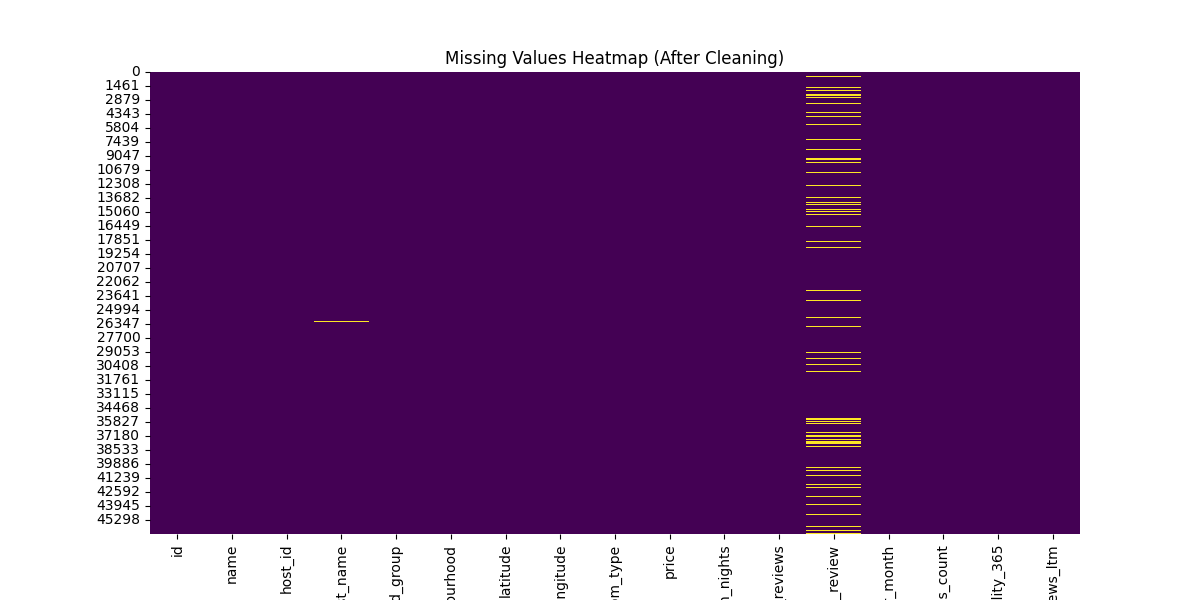
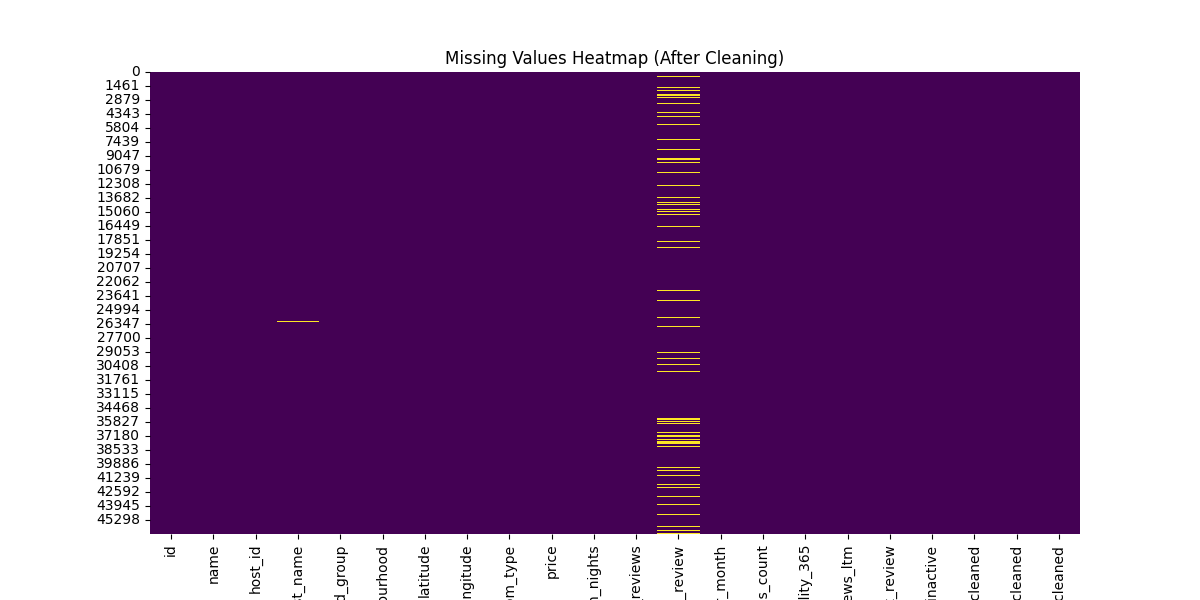
Enhance data cleaning and remove integration script
Improved data cleaning by adding advanced handling for missing values, outlier capping, feature engineering (e.g., days_since_last_review, is_inactive), and rare category grouping. Dropped the data_integration.py script as integration is no longer required. Updated data_quality.py for minor code cleanup and formatting.

diff --git a/preprocessing/data_cleaning.py b/preprocessing/data_cleaning.py
@@ -1,18 +1,21 @@
-# Code for Data Cleaning
-# Explanation: Handle missing values, remove duplicates, correct data types.
-# For reviews_per_month: Set to 0 when number_of_reviews == 0 (meaningful, as no reviews mean 0 per month).
-# For last_review: Set to a placeholder like 'No Reviews' or drop if not useful for regression (we'll drop it later if irrelevant).
-# License is often missing – drop if >90% missing.
-# Remove duplicates based on 'id'.
-# Handle outliers: Cap price at 99th percentile if needed.
-# Output: Show before/after shape, missing values.
 import seaborn as sns
 import matplotlib.pyplot as plt
 import pandas as pd
-
+import numpy as np
 from common.config import INPUT_CSV
 
 df = pd.read_csv(INPUT_CSV)
+
+# Handle missing values, remove duplicates, correct data types.
+# For reviews_per_month: Set to 0 when number_of_reviews == 0 (meaningful, as no reviews mean 0 per month).
+# For last_review: Convert to days_since_last_review (using Sep 29, 2025) and impute missing with max+1.
+# License is often missing – drop if >80% missing.
+# Remove duplicates based on 'id'.
+# Handle outliers: Cap price at 99th percentile, minimum_nights at 95th percentile (data-driven).
+# Don't drop 0 availability; add 'is_inactive' flag.
+# Impute remaining numerical NaNs with median.
+# Output: Show before/after shape, missing values, plots.
+
 # Remove duplicates based on 'id'
 df = df.drop_duplicates(subset=['id'])
 print("Shape after removing duplicates:", df.shape)
@@ -20,26 +23,53 @@ print("Shape after removing duplicates:", df.shape)
 # Handle missing reviews_per_month: Set to 0 where number_of_reviews == 0
 df.loc[df['number_of_reviews'] == 0, 'reviews_per_month'] = 0
 
-# Handle last_review: Set to 'No Reviews' for categorical handling (or drop later)
-df['last_review'].fillna('No Reviews', inplace=True)
+# Handle other missing: Drop rows with missing price (target)
+df.dropna(subset=['price'], inplace=True)
 
-# Handle other missing: Drop rows with missing price (target), or impute means for numerical.
-df.dropna(subset=['price'], inplace=True)  # Critical target
-
-# For license: Mostly missing, drop column if >80% missing
+# For license: Drop if >80% missing
 if df['license'].isnull().sum() / len(df) > 0.8:
     df.drop('license', axis=1, inplace=True)
     print("Dropped 'license' column due to high missing values.")
 
-# Convert data types: id/host_id to string, dates to datetime if needed.
+# Convert data types: id/host_id to string, last_review to datetime for feature engineering
 df['id'] = df['id'].astype(str)
 df['host_id'] = df['host_id'].astype(str)
-# If needed, but since mixed, keep as string for now.
 df['last_review'] = pd.to_datetime(df['last_review'], errors='coerce')
+
+# Handle last_review: Convert to days_since_last_review (using current date: Sep 29, 2025)
+current_date = pd.to_datetime('2025-09-29')
+df['days_since_last_review'] = (current_date - df['last_review']).dt.days
+max_days = df['days_since_last_review'].max() + 1  # For no reviews
+df['days_since_last_review'].fillna(max_days, inplace=True)
+print("Days since last review stats:", df['days_since_last_review'].describe())
+
+# Create is_inactive flag instead of dropping 0 availability
+df['is_inactive'] = (df['availability_365'] == 0).astype(int)
 
 # Outlier handling: Cap price at 99th percentile
 price_99 = df['price'].quantile(0.99)
 df['price'] = df['price'].clip(upper=price_99)
+
+# Outlier handling: Cap minimum_nights at 95th percentile (data-driven)
+min_nights_95 = df['minimum_nights'].quantile(0.95)
+df['minimum_nights_cleaned'] = df['minimum_nights'].clip(upper=min_nights_95)
+
+# Impute remaining numerical NaNs with median (safe for skewed data)
+numerical_cols = df.select_dtypes(include=['float64', 'int64']).columns
+for col in numerical_cols:
+    df[col].fillna(df[col].median(), inplace=True)
+
+# Handle rare categories in neighbourhood_group
+threshold = 100
+value_counts = df['neighbourhood_group'].value_counts()
+rare_neigh = value_counts[value_counts < threshold].index
+df['neighbourhood_group_cleaned'] = df['neighbourhood_group'].replace(rare_neigh, 'Other')
+
+# Merge rare room types for linear regression
+df['room_type_cleaned'] = df['room_type'].replace({
+    'Shared room': 'Other',
+    'Hotel room': 'Other'
+})
 
 # Missing after cleaning
 print("Missing after cleaning:\n", df.isnull().sum())

diff --git a/preprocessing/data_quality.py b/preprocessing/data_quality.py
@@ -1,14 +1,8 @@
 # Code for Data Quality Check
-# Explanation: This step involves checking for missing values, duplicates, data types, unique values, and basic statistics.
-# We use df.info(), df.describe(), df.isnull().sum(), df.duplicated().sum().
-# For reviews_per_month and last_review: When number_of_reviews == 0, these are empty – that's expected, so we note it but don't impute yet.
-# Check for duplicates: 'id' should be unique, but host_id and name may repeat (multiple listings per host).
-# Output: Print reports and plots for visualization.
-
-import numpy as np
 import seaborn as sns
 import matplotlib.pyplot as plt
 import pandas as pd
+import numpy as np
 
 from common.config import INPUT_CSV
 
@@ -35,10 +29,8 @@ print("\nNumerical stats:\n", df.describe())
 # Special check for reviews: Rows with number_of_reviews == 0 should have NaN in last_review and reviews_per_month
 zero_reviews = df[df['number_of_reviews'] == 0]
 print("\nRows with 0 reviews:", zero_reviews.shape[0])
-print("Missing last_review in 0 reviews rows:",
-      zero_reviews['last_review'].isnull().sum())
-print("Missing reviews_per_month in 0 reviews rows:",
-      zero_reviews['reviews_per_month'].isnull().sum())
+print("Missing last_review in 0 reviews rows:", zero_reviews['last_review'].isnull().sum())
+print("Missing reviews_per_month in 0 reviews rows:", zero_reviews['reviews_per_month'].isnull().sum())
 
 # Plot missing values heatmap
 plt.figure(figsize=(12, 6))
@@ -52,5 +44,5 @@ sns.histplot(df['price'], bins=50, kde=True)
 plt.title('Price Distribution')
 plt.show()
 
-# Seed for reproducibility (though not much randomness here yet)
+# Seed for reproducibility
 np.random.seed(42)
